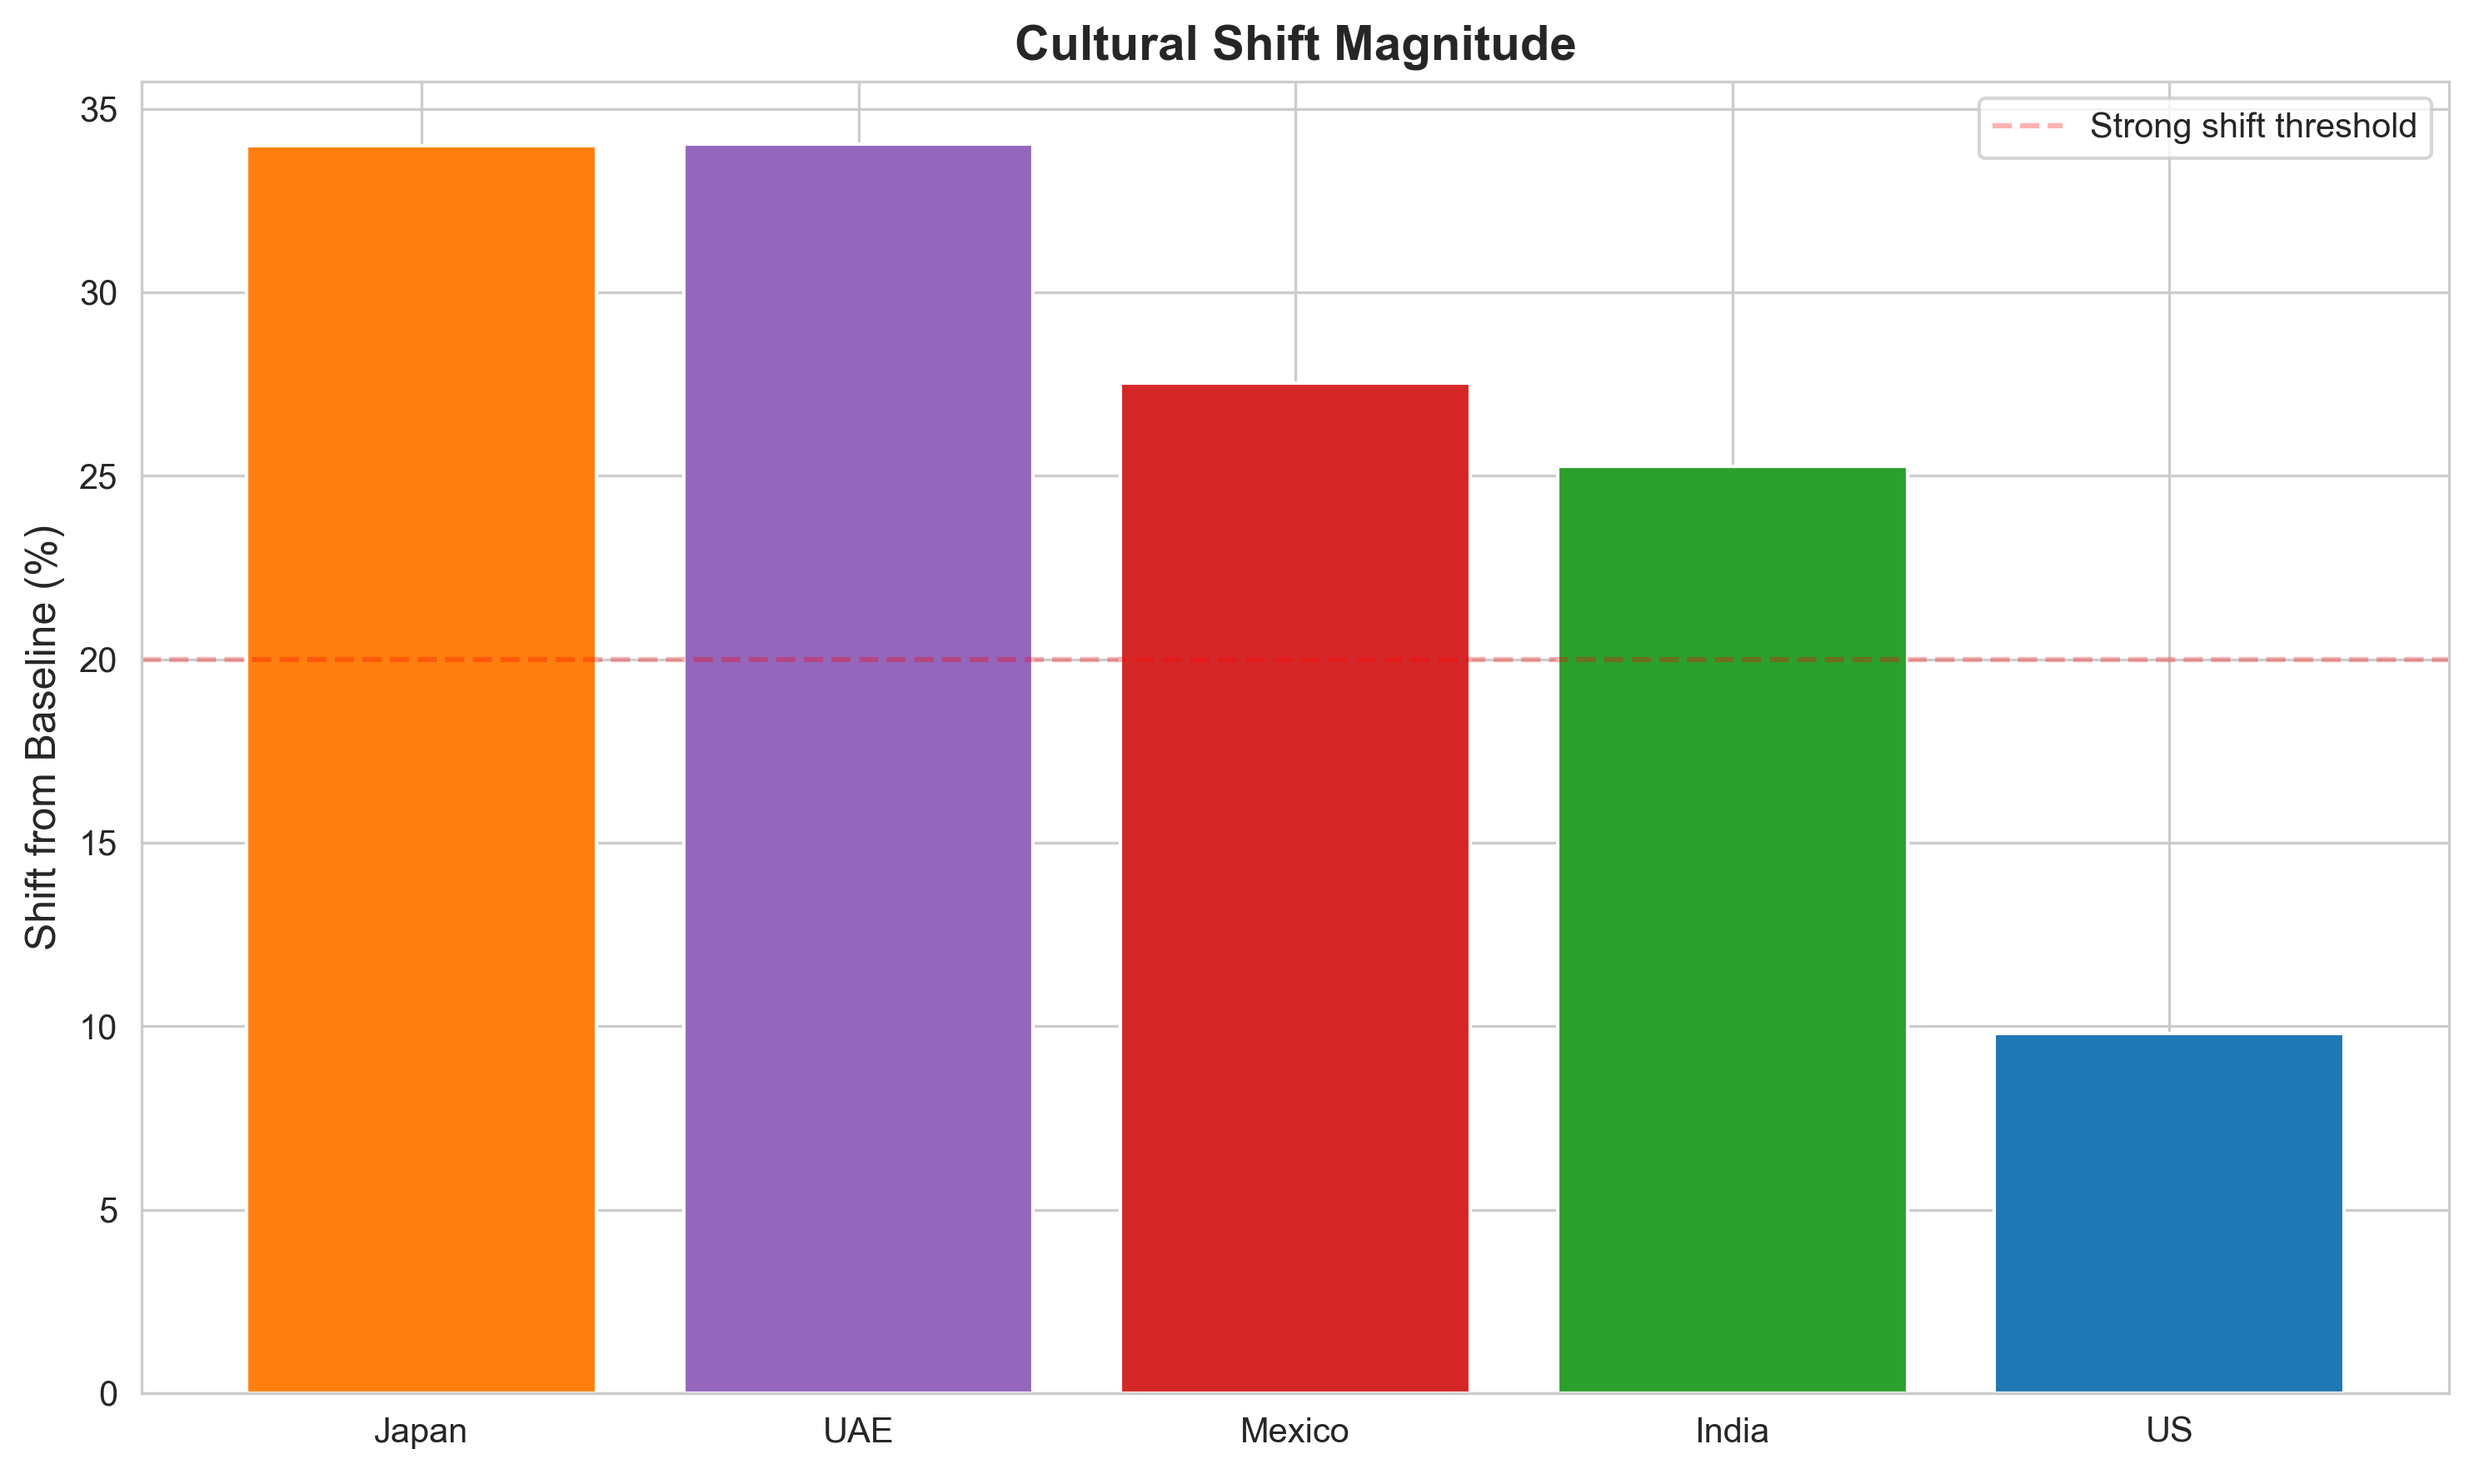
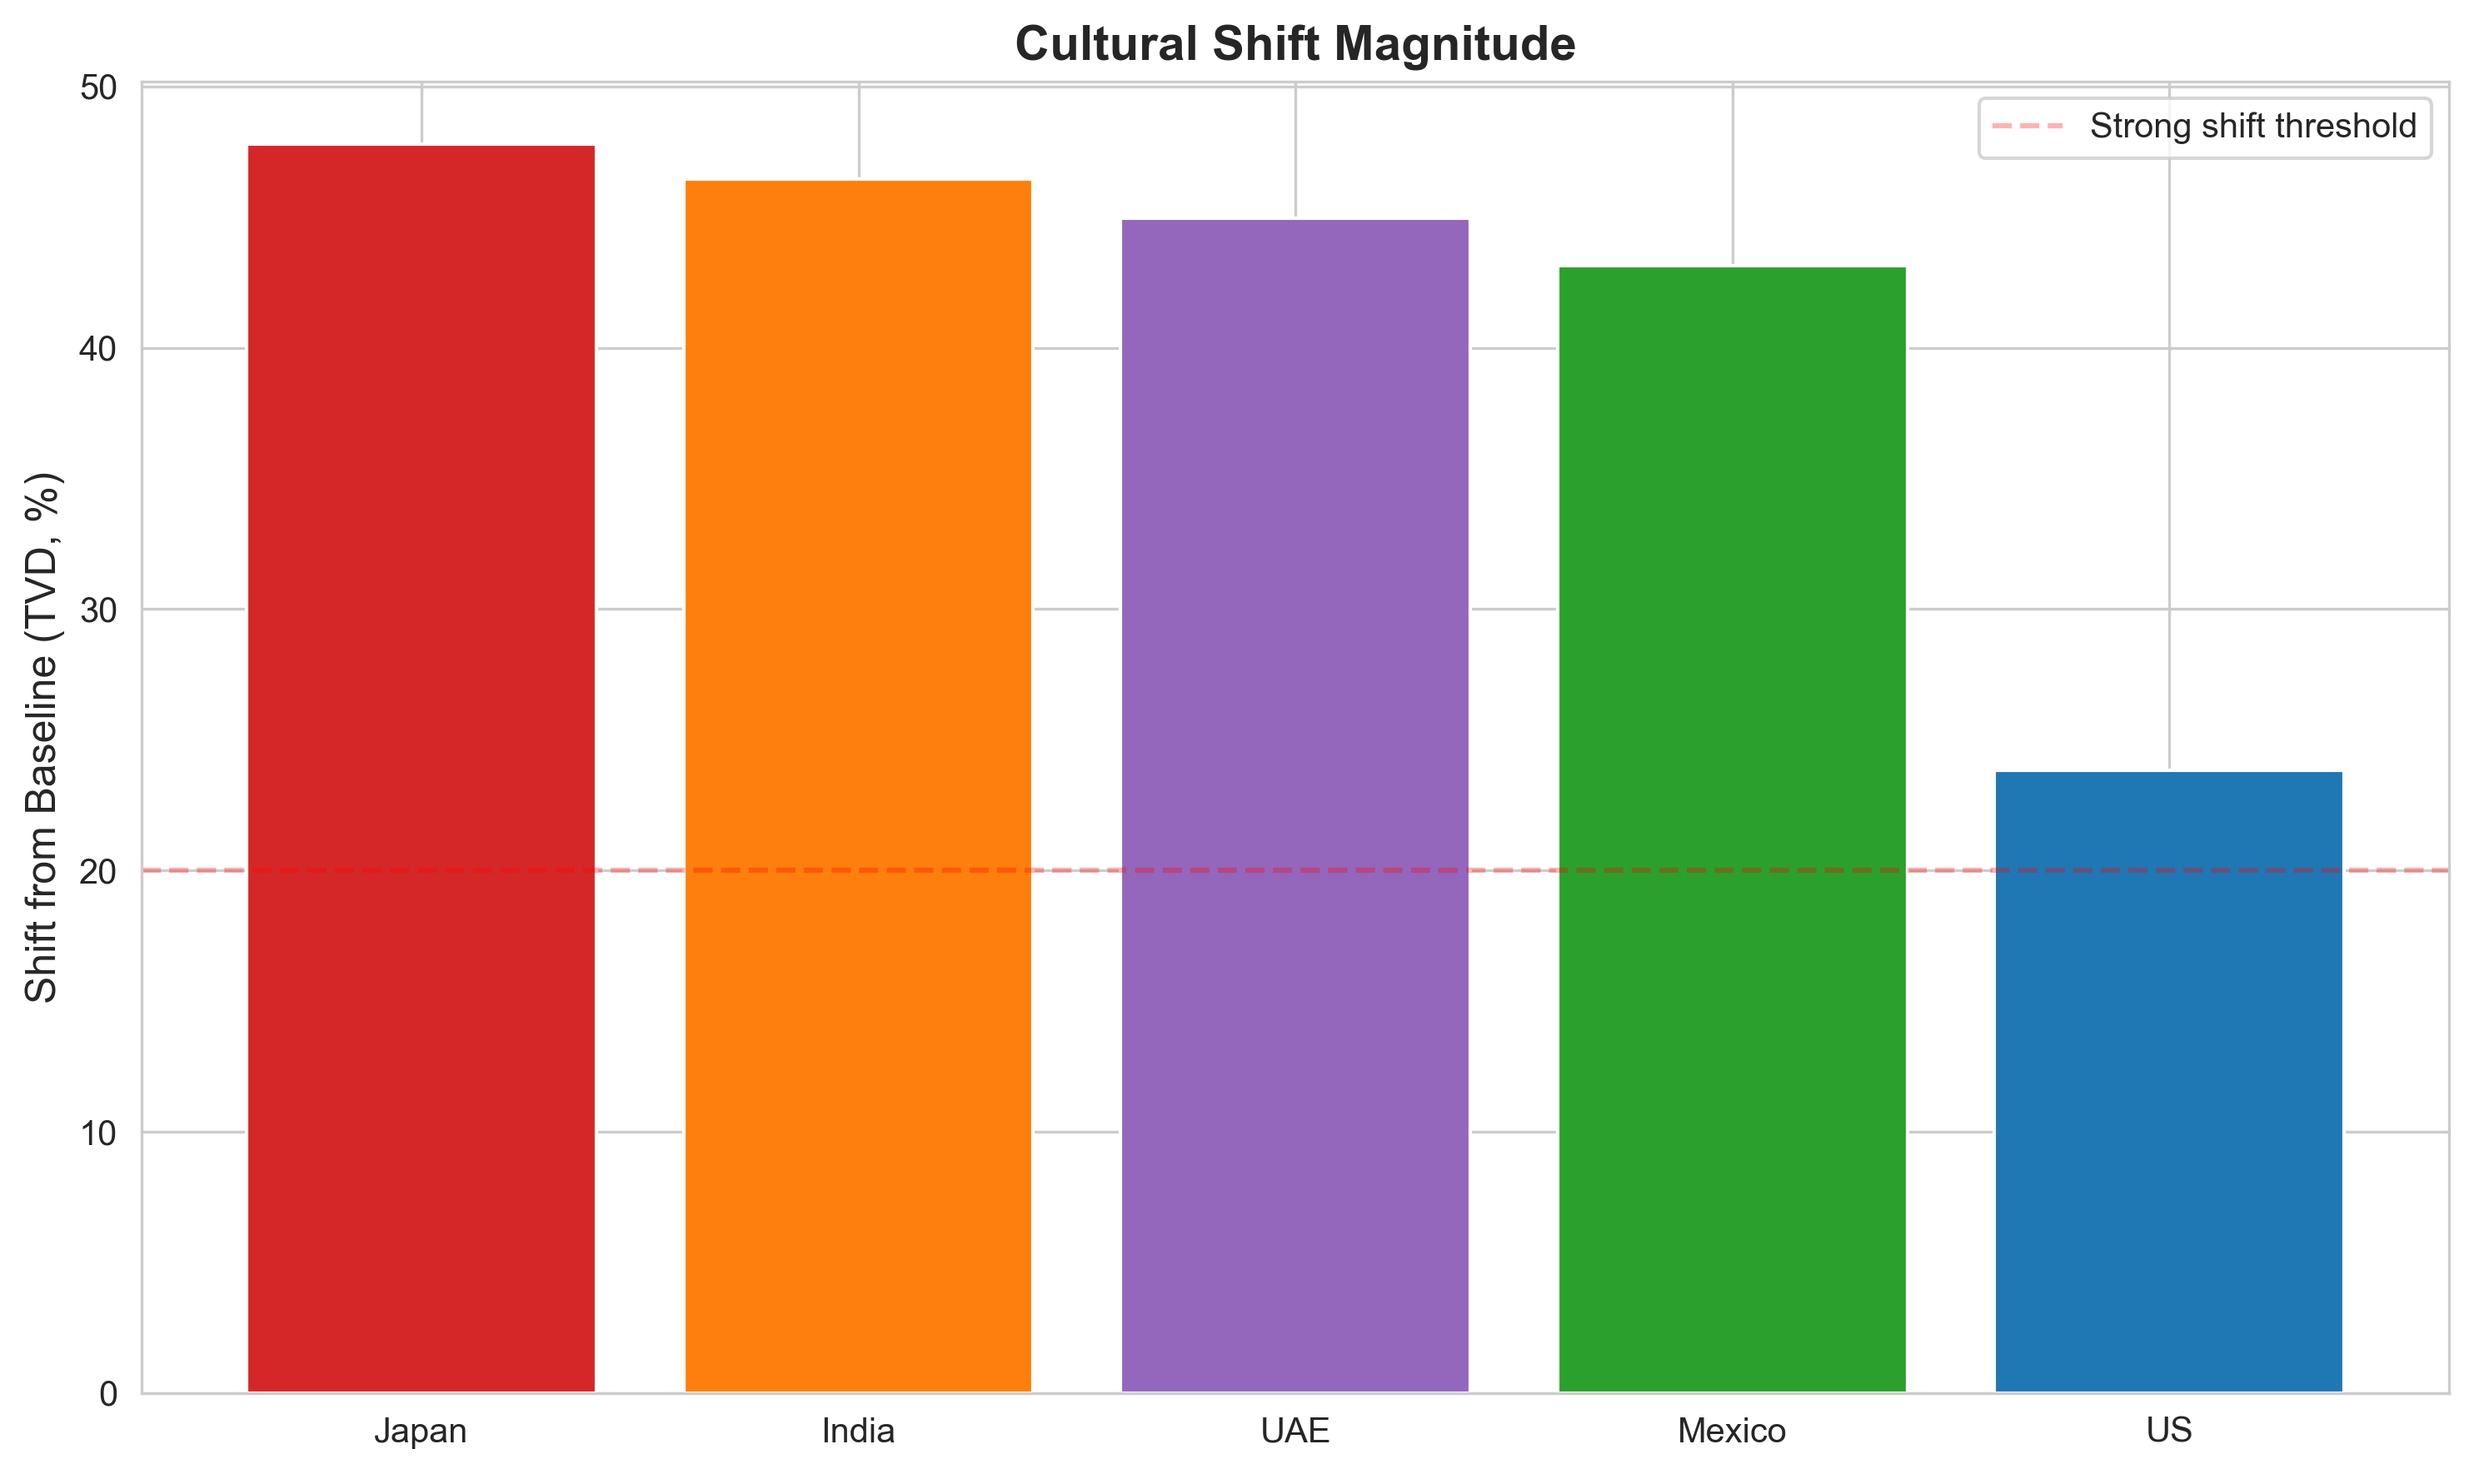
fix baseline comparison

diff --git a/visualizer.py b/visualizer.py
@@ -11,6 +11,8 @@ import matplotlib.pyplot as plt
 import seaborn as sns
 from pathlib import Path
 import logging
+import ast
+from collections import Counter
 
 import config
 
@@ -299,23 +301,74 @@ class Visualizer:
         plt.close()
 
     def plot_cultural_shift_magnitude(self, df: pd.DataFrame):
-        """Bar chart of shift magnitude by culture"""
+        """Bar chart of shift magnitude (TVD) by culture"""
         if 'baseline' not in df['culture'].unique():
             return
 
-        fig, ax = plt.subplots(figsize=(10, 6))
+        # --- compute TVD per culture, same as analyze_cultural_shift_magnitude ---
+        # Get baseline value distribution
+        baseline_values = []
+        for values_list in df[df['culture'] == 'baseline']['top_values']:
+            if isinstance(values_list, str):
+                try:
+                    values_list = ast.literal_eval(values_list)
+                except Exception:
+                    pass
+            if isinstance(values_list, list):
+                baseline_values.extend(values_list)
 
-        # Calculate shifts (simplified - full code in analyze.py)
-        shifts = {
-            'Japan': 34.0, 'UAE': 34.05, 'Mexico': 27.53,
-            'India': 25.26, 'US': 9.81
-        }
+        baseline_counter = Counter(baseline_values)
+        baseline_total = len(baseline_values)
+
+        shifts = {}
+        for culture in df['culture'].unique():
+            if culture == 'baseline':
+                continue
+
+            culture_values = []
+            for values_list in df[df['culture'] == culture]['top_values']:
+                if isinstance(values_list, str):
+                    try:
+                        values_list = ast.literal_eval(values_list)
+                    except Exception:
+                        pass
+                if isinstance(values_list, list):
+                    culture_values.extend(values_list)
+
+            culture_counter = Counter(culture_values)
+            culture_total = len(culture_values)
+
+            shift_magnitude = 0.0
+            all_values = set(baseline_counter.keys()) | set(culture_counter.keys())
+            for value in all_values:
+                baseline_pct = (baseline_counter.get(value, 0) / baseline_total * 100) if baseline_total > 0 else 0
+                culture_pct = (culture_counter.get(value, 0) / culture_total * 100) if culture_total > 0 else 0
+                shift_magnitude += abs(culture_pct - baseline_pct)
+
+            tvd = shift_magnitude / 2.0  # TVD in percentage points
+            shifts[culture] = tvd
+
+        # Sort by shift magnitude (optional)
+        shifts = dict(sorted(shifts.items(), key=lambda x: x[1], reverse=True))
+
+        # --- plotting ---
+        fig, ax = plt.subplots(figsize=(10, 6))
 
         cultures = list(shifts.keys())
         values = list(shifts.values())
 
-        ax.bar(cultures, values, color=['#ff7f0e', '#9467bd', '#d62728', '#2ca02c', '#1f77b4'])
-        ax.set_ylabel('Shift from Baseline (%)', fontsize=12)
+        # Color per culture (flag-ish vibes)
+        color_map = {
+            'Japan': '#d62728',  # red
+            'India': '#ff7f0e',  # saffron / orange
+            'Mexico': '#2ca02c',  # green
+            'UAE': '#9467bd',  # purple accent
+            'US': '#1f77b4',  # blue
+        }
+        colors = [color_map.get(c, '#7f7f7f') for c in cultures]
+
+        ax.bar(cultures, values, color=colors)
+        ax.set_ylabel('Shift from Baseline (TVD, %)', fontsize=12)
         ax.set_title('Cultural Shift Magnitude', fontsize=14, fontweight='bold')
         ax.axhline(y=20, color='r', linestyle='--', alpha=0.3, label='Strong shift threshold')
         ax.legend()
@@ -371,9 +424,17 @@ class Visualizer:
         
         # Convert string lists to actual lists
         if 'top_values' in df.columns:
-            df['top_values'] = df['top_values'].apply(
-                lambda x: eval(x) if isinstance(x, str) and x.startswith('[') else []
-            )
+            def parse_top_values(x):
+                if isinstance(x, list):
+                    return x
+                if isinstance(x, str) and x.startswith('['):
+                    try:
+                        return ast.literal_eval(x)
+                    except (ValueError, SyntaxError):
+                        return []
+                return []
+
+            df['top_values'] = df['top_values'].apply(parse_top_values)
         
         logger.info("Creating visualizations...")
         

diff --git a/evaluator.py b/evaluator.py
@@ -435,30 +435,41 @@ def aggregate_metrics(metrics_list: List[EvaluationMetrics]) -> Dict[str, float]
 
 
 def calculate_baseline_bias(
-    baseline_responses: List[ParsedResponse],
-    cultural_contexts: Dict[str, Dict],
-    scenario_dimensions: List[str]
+        baseline_responses: List[tuple],  # ← Now (ParsedResponse, scenario_id) tuples
+        cultural_contexts: Dict[str, Dict],
+        scenario_dimensions: List[str]  # ← Kept for compatibility but NOT USED
 ) -> Dict[str, float]:
     """
     Calculate which culture the baseline responses are closest to
     This reveals the inherent cultural bias in the model
+
+    Now uses primary_decision_dimension per scenario for consistency with alignment scoring
     """
+    from scenarios import get_scenario_by_id
     evaluator = CulturalEvaluator()
 
-    baseline_profiles = [
-        evaluator._infer_cultural_profile(resp)
-        for resp in baseline_responses
-        if resp.parse_success
-    ]
+    # Step 1: Infer profile AND get primary dimension for each response
+    baseline_data = []
+    for resp, scenario_id in baseline_responses:  # ← Unpack tuple
+        if not resp.parse_success:
+            continue
 
-    if not baseline_profiles:
+        scenario = get_scenario_by_id(scenario_id)  # ← Look up scenario
+        if not scenario:
+            continue
+
+        profile = evaluator._infer_cultural_profile(resp)
+        primary_dim = scenario.primary_decision_dimension  # ← Get primary dimension
+
+        baseline_data.append({
+            'profile': profile,
+            'primary_dimension': primary_dim  # ← Store with response
+        })
+
+    if not baseline_data:
         return {}
 
-    avg_baseline = {
-        dim: np.mean([p[dim] for p in baseline_profiles])
-        for dim in evaluator.dimensions
-    }
-
+    # Step 2: Calculate distances to each culture
     distances = {}
     for culture, context in cultural_contexts.items():
         if culture == "baseline":
@@ -469,15 +480,18 @@ def calculate_baseline_bias(
         if all(v is None for v in expected_profile.values()):
             continue
 
+        # Step 3: Use ONLY primary dimension for each response
         dist_squared = []
-        for dim in scenario_dimensions:
-            if dim in expected_profile and dim in avg_baseline:
+        for item in baseline_data:  # ← Loop through responses
+            dim = item['primary_dimension']  # ← Get THIS scenario's primary dimension
+
+            if dim in expected_profile and dim in item['profile']:
                 expected = expected_profile[dim]
 
                 if expected is None:
                     continue
 
-                diff = expected - avg_baseline[dim]
+                diff = expected - item['profile'][dim]  # ← Compare only this dimension
                 dist_squared.append(diff ** 2)
 
         if dist_squared:

diff --git a/analyze.py b/analyze.py
@@ -54,14 +54,17 @@ def analyze_cultural_bias(df: pd.DataFrame):
 
         baseline_responses = []
         for _, row in baseline_data.iterrows():
-            baseline_responses.append(ParsedResponse(
+            parsed = ParsedResponse(  # ← Create ParsedResponse first
                 raw_text=row['raw_response'],
                 explanation=row['explanation'],
                 decision=row.get('decision'),
-                top_values=eval(row.get('top_values', '[]')) if isinstance(row.get('top_values'), str) else row.get('top_values', []),
+                top_values=eval(row.get('top_values', '[]')) if isinstance(row.get('top_values'), str) else row.get(
+                    'top_values', []),
                 parse_success=row['parse_success'],
                 parse_errors=[]
-            ))
+            )
+            # Now pass as tuple: (ParsedResponse, scenario_id)
+            baseline_responses.append((parsed, row['scenario_id']))  # ← Append tuple with scenario_id
         
         if baseline_responses:
             # Get dimensions

diff --git a/main.py b/main.py
@@ -259,17 +259,18 @@ class ExperimentRunner:
             # Calculate which culture baseline is closest to
             from evaluator import calculate_baseline_bias
             from response_parser import ParsedResponse
-            
+
             baseline_responses = []
             for _, row in baseline_data.iterrows():
-                baseline_responses.append(ParsedResponse(
+                parsed = ParsedResponse(
                     raw_text=row['raw_response'],
                     explanation=row['explanation'],
                     decision=row.get('decision'),
                     top_values=row.get('top_values', []),
                     parse_success=row['parse_success'],
                     parse_errors=[]
-                ))
+                )
+                baseline_responses.append((parsed, row['scenario_id']))
             
             if baseline_responses:
                 # Get all scenario dimensions

diff --git a/scenarios.py b/scenarios.py
@@ -423,6 +423,10 @@ ALL_SCENARIOS = (
     INDULGENCE_SCENARIOS
 )
 
+# Normalize tags: keep only the primary decision dimension
+for s in ALL_SCENARIOS:
+    s.cultural_dimensions = [s.primary_decision_dimension]
+
 # Create lookup dictionary
 SCENARIOS_DICT = {s.id: s for s in ALL_SCENARIOS}
 
